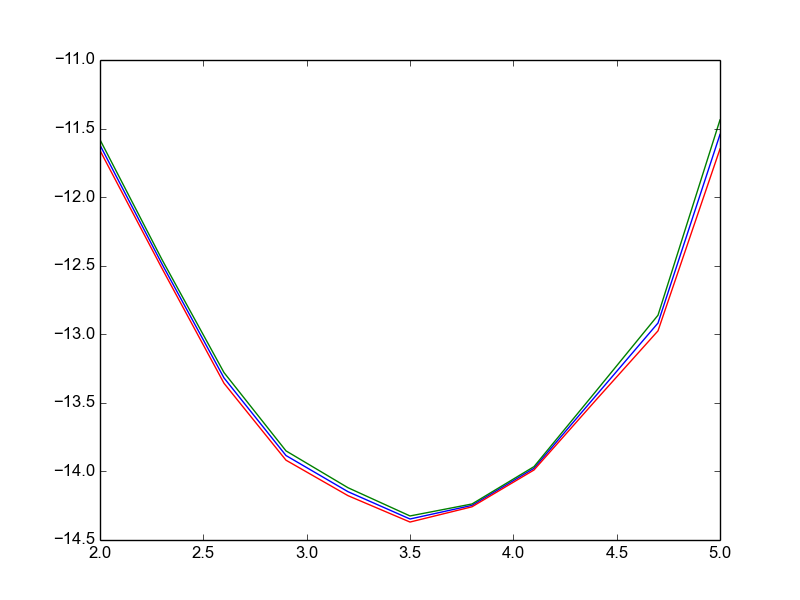
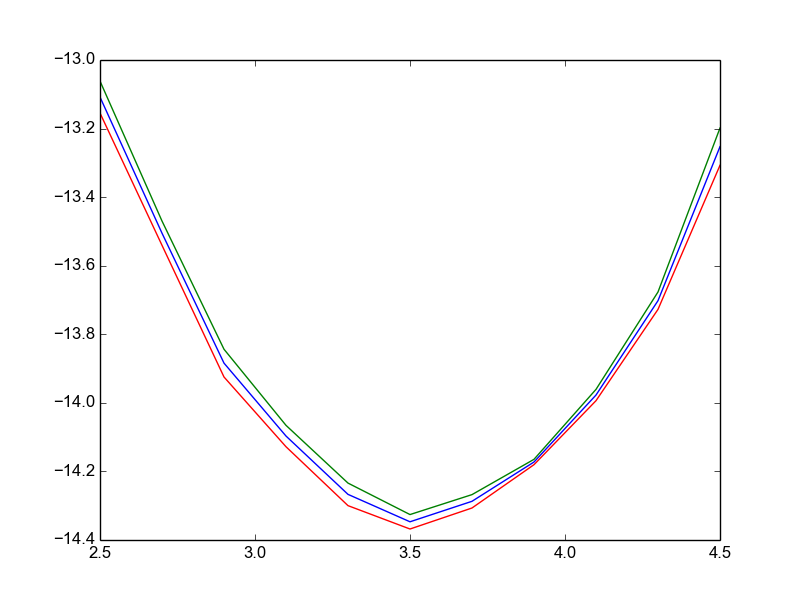
Some data for beryllium.

diff --git a/Project2/src/cpp/vmcsolver/VMCSolver.cpp b/Project2/src/cpp/vmcsolver/VMCSolver.cpp
@@ -93,6 +93,12 @@ bool VMCSolver::runIntegration()
 
 void VMCSolver::runStepSlaterQuantum(int cycle)
 {
+    for (int i = 0; i < nParticles; i++)
+    {
+        runSingleStepSlaterQuantum(i, cycle);
+    }
+    // ALL PARTICLES MOVED ONE STEP AT THIS POINT.
+    endOfCycle(cycle);
 }
 
 void VMCSolver::runSingleStepQuantum(int i, int cycle)
@@ -233,6 +239,10 @@ double VMCSolver::getCorrelationRatio(int i)
         }
     }
     return exp(valNew - valOld);
+}
+
+void VMCSolver::runSingleStepSlaterQuantum(int i, int cycle)
+{
 }
 
 void VMCSolver::runSingleStepSlater(int i, int cycle)

diff --git a/Project2/src/python/plot/neonSlater/run.py b/Project2/src/python/plot/neonSlater/run.py
@@ -21,7 +21,7 @@ except OSError:
 
 nCycles = 1e4
 blockSize = nCycles
-alphaArray = np.linspace(8,10,11)
+alphaArray = np.linspace(10,11,11)
 # Save the alpha values.
 np.savetxt(alphaFile,alphaArray)
 # Compile the code
@@ -33,4 +33,4 @@ os.chdir(curDir)
 os.chdir(cppDir)
 # Run the cpp code
 for alpha in alphaArray:
-    call(["./a.out", fileName, str(alpha),"1.0", str(nCycles), str(blockSize)])
+    call(["./a.out", fileName, str(alpha),"0.9", str(nCycles), str(blockSize)])

diff --git a/Project2/src/python/plot/berylliumAlphaQuantum/run.py b/Project2/src/python/plot/berylliumAlphaQuantum/run.py
@@ -19,7 +19,7 @@ try :
 except OSError:
     pass
 
-nCycles = 1e4
+nCycles = 1e5
 blockSize = nCycles/10
 alphaArray = np.linspace(2.5,4.5,11)
 beta = 1
